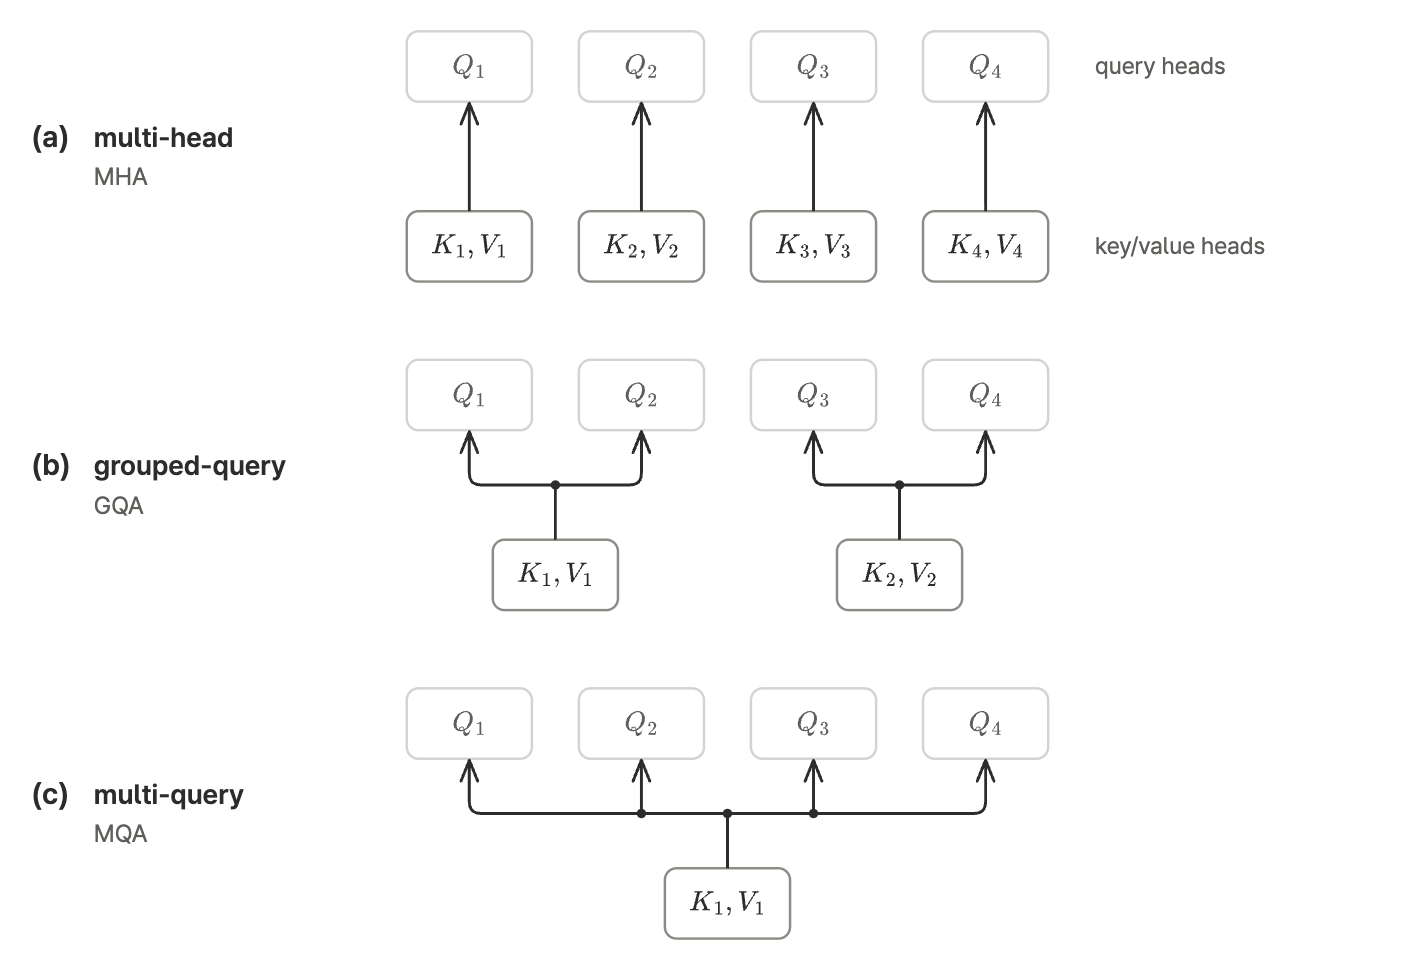
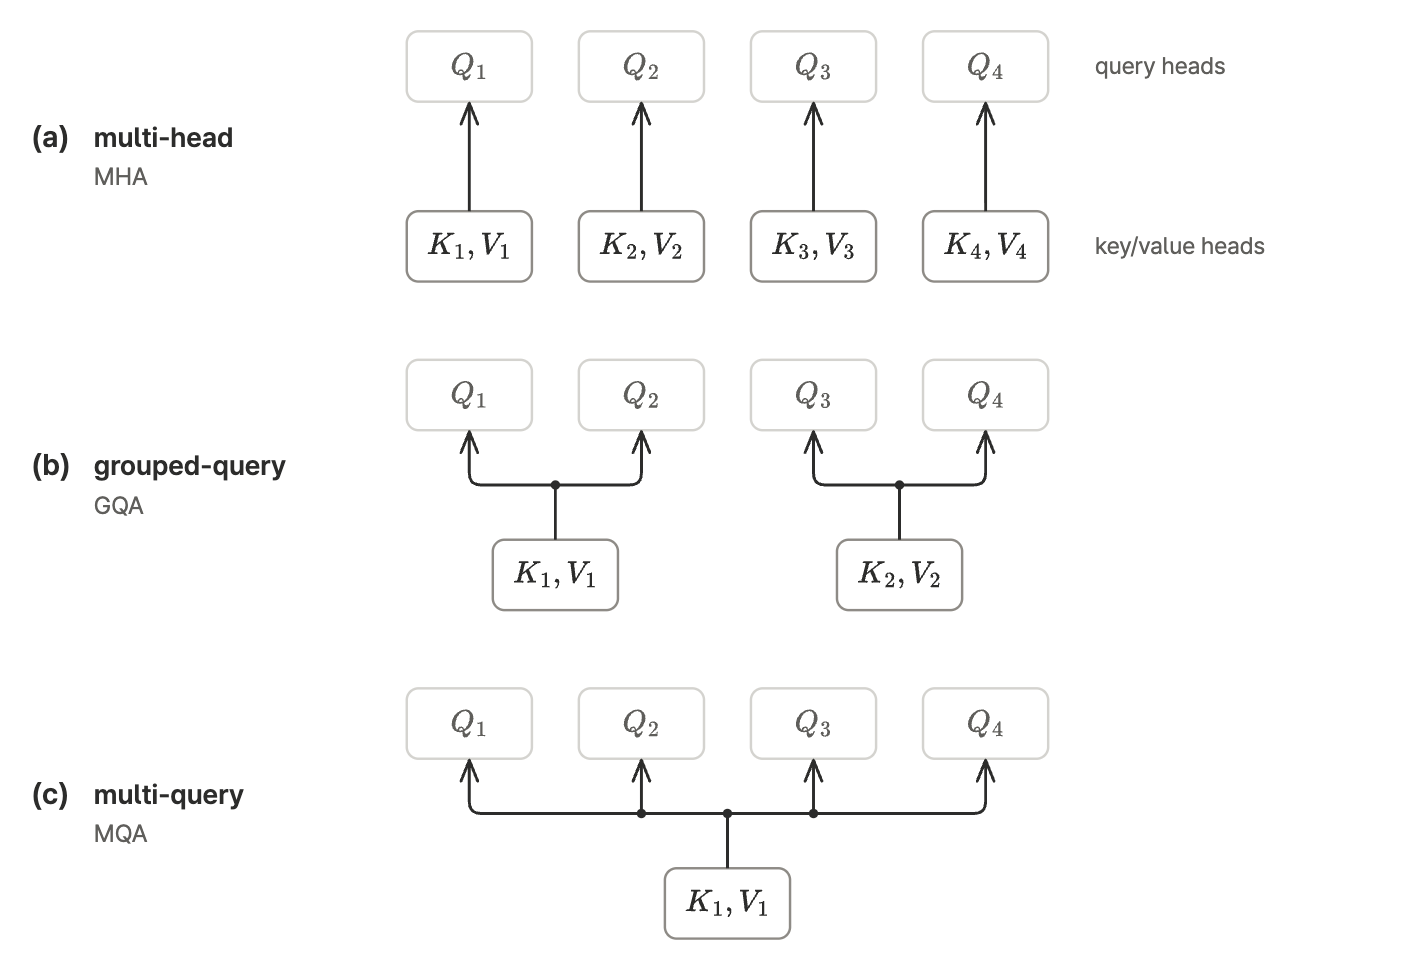
fix: make figure math as legible as the labels beside it
TeX glyphs rendered as hairlines in ink-2 at 0.92 of the matched x-height, so equations faded next to the sans and mono labels, most of all on a container's surface fill. Math now matches Pretendard's x-height at 0.94, never sets below 13u, keeps full ink unless ghosted or hued, and gets a 0.012em outline in its own color. Examples and the README sheet are re-rendered; one example equation column moves left to stay inside the canvas margin.

diff --git a/skills/eli5-figure/scripts/lib/runtime.js b/skills/eli5-figure/scripts/lib/runtime.js
@@ -250,7 +250,7 @@
     texts.forEach((t, i) => {
       const m = o.math[i];
       const cs = getComputedStyle(t);
-      const size = parseFloat(cs.fontSize);
+      const size = Math.max(parseFloat(cs.fontSize), o.mathMinSize || 0);
       const anchor = cs.textAnchor || 'start';
       const x = t.x.baseVal.length ? t.x.baseVal[0].value : 0;
       const y = t.y.baseVal.length ? t.y.baseVal[0].value : 0;

diff --git a/skills/technical-figure/scripts/lib/runtime.js b/skills/technical-figure/scripts/lib/runtime.js
@@ -250,7 +250,7 @@
     texts.forEach((t, i) => {
       const m = o.math[i];
       const cs = getComputedStyle(t);
-      const size = parseFloat(cs.fontSize);
+      const size = Math.max(parseFloat(cs.fontSize), o.mathMinSize || 0);
       const anchor = cs.textAnchor || 'start';
       const x = t.x.baseVal.length ? t.x.baseVal[0].value : 0;
       const y = t.y.baseVal.length ? t.y.baseVal[0].value : 0;

diff --git a/skills/technical-figure/references/visual-tokens.md b/skills/technical-figure/references/visual-tokens.md
@@ -24,7 +24,7 @@ The unit `u` is one SVG user unit in a 720u-wide viewBox. Notion's default colum
 - Never Light or Thin weights, never 700 or heavier, no tracking on sans labels.
 - Two-line nodes use a 19u baseline gap.
 - Estimates for planning: Hangul 0.864 em, Latin sans about 0.55 em, mono 0.6 em. Final widths come from measurement; character-count estimates were off by up to a third on mixed labels.
-- Math x-height is matched to the label (1ex = 0.49 of the label size) and then scaled by 0.92 so capitals in math do not tower over label capitals.
+- Math x-height is matched to Pretendard's (1ex = 0.53 of the label size) and then scaled by 0.94, and math never sets below 13u. TeX glyphs have hairline strokes, so math keeps full ink where a sans label of the same class steps down to ink-2, and the renderer adds a 0.012em outline in the glyph color. Without these, math read thinner and fainter than the labels beside it, especially on a container's surface fill.
 
 What published figures use, for orientation: Anthropic's research figures use its brand sans or Roboto with Roboto Mono; Google DeepMind uses Google Sans; OpenAI uses OpenAI Sans on the web; many lab paper figures fall back to DejaVu Sans (matplotlib default) or Calibri with Cambria Math (PowerPoint). Brand typefaces are not redistributable and are not used here.
 

diff --git a/skills/eli5-figure/references/svg-contract.md b/skills/eli5-figure/references/svg-contract.md
@@ -72,7 +72,7 @@ Write TeX in a `data-tex` attribute on a `<text>` element. Keep the element's te
 <text class="tl" x="300" y="210" data-tex="\hat r^\top x">r^T x</text>
 ```
 
-The renderer replaces the element with MathJax glyph paths at the same anchor, sized so the math x-height matches the label size and then scaled by 0.92, colored with the element's class color. Unicode combining marks and modifier letters (`r̂`, `ᵀ`, `⁽ˡ⁾`) are lint failures in any text; use `data-tex` instead.
+The renderer replaces the element with MathJax glyph paths at the same anchor, sized so the math x-height matches the label's (scaled by 0.94, never below 13u), in full ink unless the element is `ghost` or hued, with a slight outline that thickens the hairline TeX glyphs. Unicode combining marks and modifier letters (`r̂`, `ᵀ`, `⁽ˡ⁾`) are lint failures in any text; use `data-tex` instead.
 
 ## Arrowheads
 

diff --git a/skills/technical-figure/references/svg-contract.md b/skills/technical-figure/references/svg-contract.md
@@ -72,7 +72,7 @@ Write TeX in a `data-tex` attribute on a `<text>` element. Keep the element's te
 <text class="tl" x="300" y="210" data-tex="\hat r^\top x">r^T x</text>
 ```
 
-The renderer replaces the element with MathJax glyph paths at the same anchor, sized so the math x-height matches the label size and then scaled by 0.92, colored with the element's class color. Unicode combining marks and modifier letters (`r̂`, `ᵀ`, `⁽ˡ⁾`) are lint failures in any text; use `data-tex` instead.
+The renderer replaces the element with MathJax glyph paths at the same anchor, sized so the math x-height matches the label's (scaled by 0.94, never below 13u), in full ink unless the element is `ghost` or hued, with a slight outline that thickens the hairline TeX glyphs. Unicode combining marks and modifier letters (`r̂`, `ᵀ`, `⁽ˡ⁾`) are lint failures in any text; use `data-tex` instead.
 
 ## Arrowheads
 
